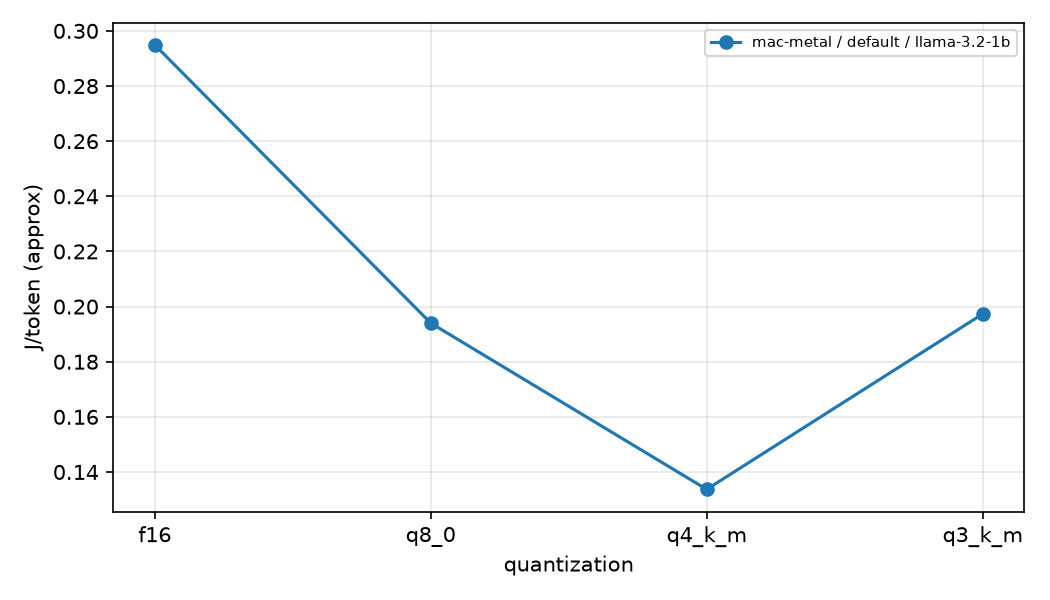
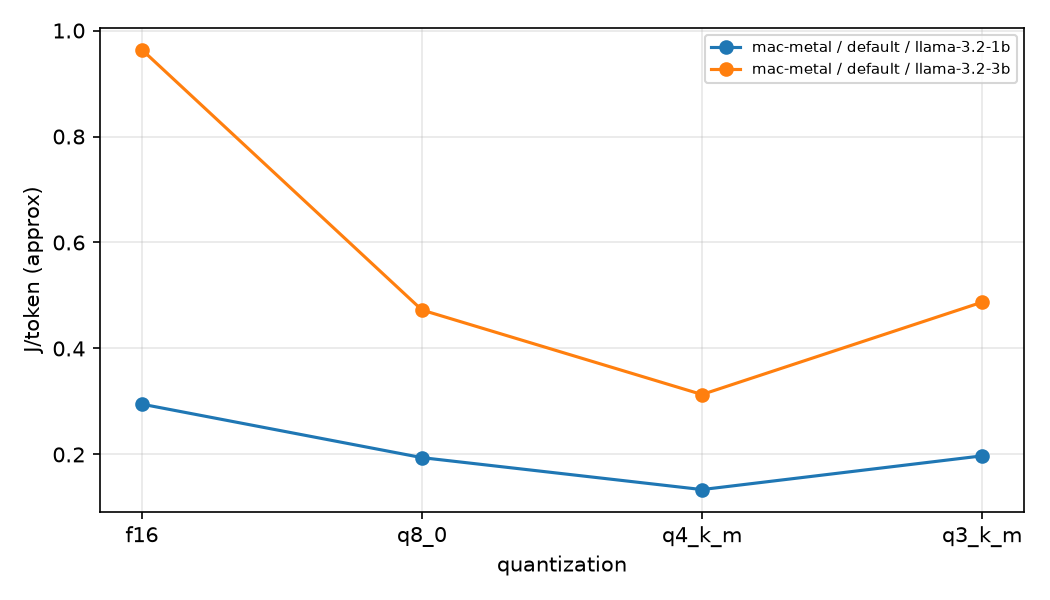
Add Llama-3.2-3B results

diff --git a/report/results.md b/report/results.md
@@ -4,5 +4,9 @@
 | mac-metal | default | llama-3.2-1b | q8_0 | 1.31 | 2717.1 | 165.7 | 32.16 | 0.194 | 14.35 |
 | mac-metal | default | llama-3.2-1b | q4_k_m | 0.80 | 2603.3 | 224.3 | 29.98 | 0.134 | 14.89 |
 | mac-metal | default | llama-3.2-1b | q3_k_m | 0.68 | 2499.6 | 166.4 | 32.83 | 0.197 | 16.91 |
+| mac-metal | default | llama-3.2-3b | f16 | 6.43 | 983.9 | 38.5 | 37.08 | 0.964 | 10.57 |
+| mac-metal | default | llama-3.2-3b | q8_0 | 3.41 | 931.5 | 67.7 | 32.01 | 0.473 | 10.58 |
+| mac-metal | default | llama-3.2-3b | q4_k_m | 2.01 | 895.8 | 96.3 | 30.16 | 0.313 | 10.87 |
+| mac-metal | default | llama-3.2-3b | q3_k_m | 1.68 | 864.7 | 69.6 | 33.90 | 0.487 | 11.81 |
 
 *J/token = mean power over the bench window / decode tokens-per-second (approximate).
